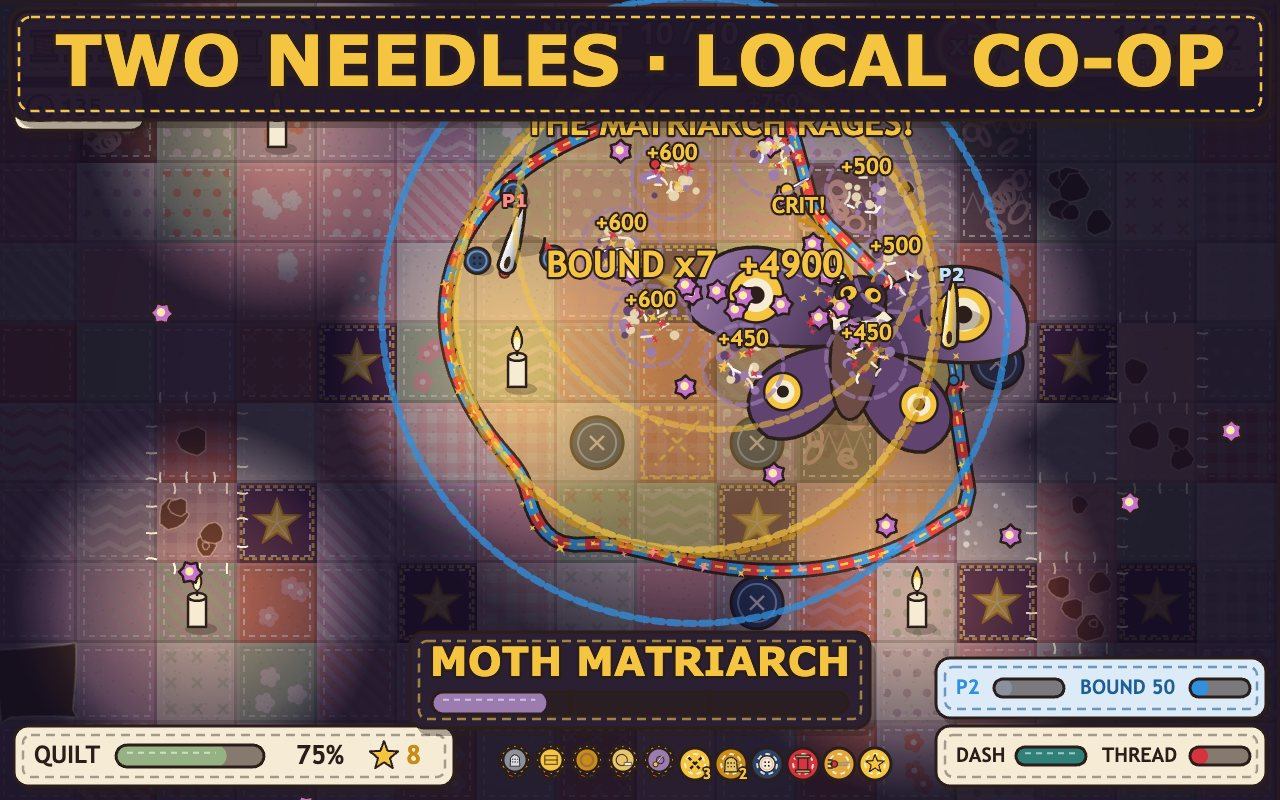
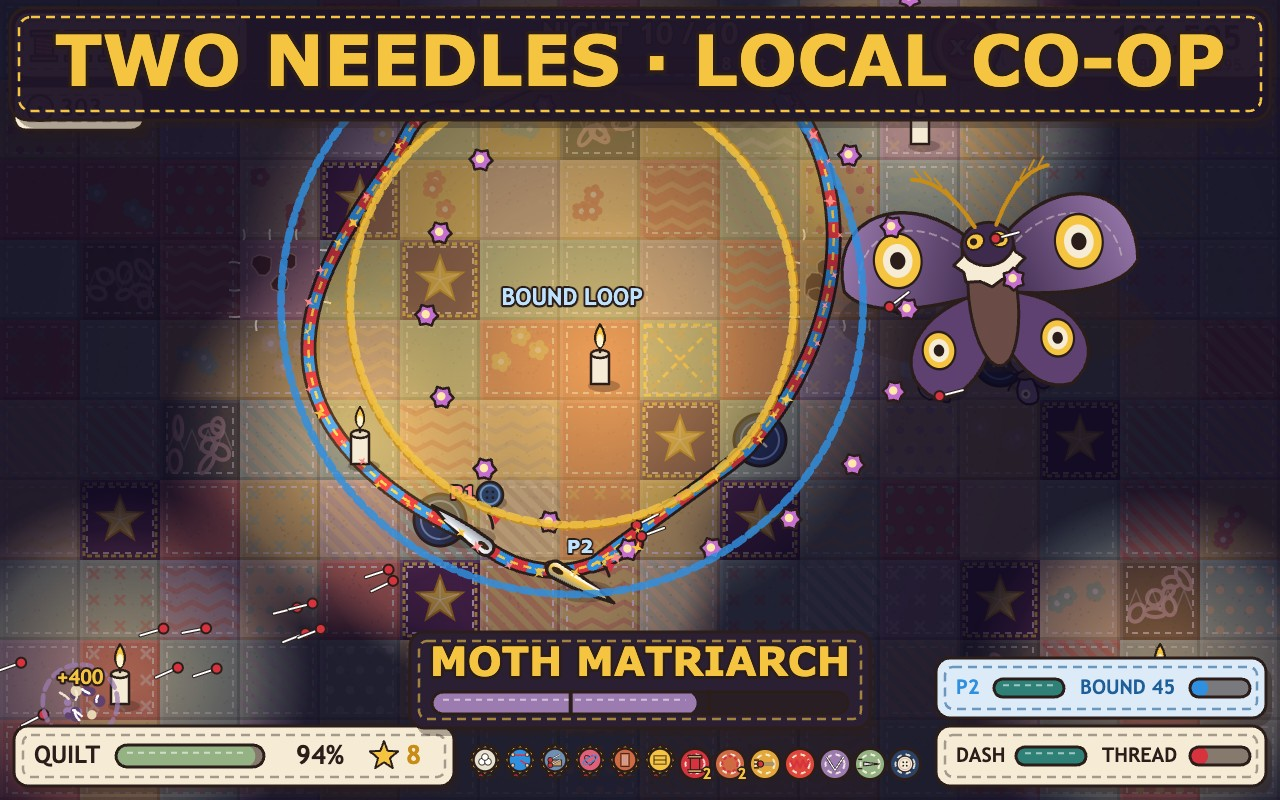
Co-op relics Cat's Cradle and Love Knot and the Cradle Song synergy, drafted only in Two Needles runs; pairs keep their own best; co-op shot skips the boss's hit-flash and joins the rest on seed 7 (Matriarch beside a giant bound loop); play-test checks the relics and the duo best

diff --git a/game/run/night.js b/game/run/night.js
@@ -13,7 +13,7 @@ import { addBonus, updateCombo } from './scoring.js';
 import { PALETTE } from '../core/config.js';
 import { addShake, burst, floatText, hitStop, ring, screenFlash, updateEffects } from '../render/effects.js';
 import { distance, easeInCubic, pointInPolygon, polygonArea, polygonCentroid } from '../core/geometry.js';
-import { BOUND_POWER, findBoundLoop, spendBothThreads } from '../coop/two-needles.js';
+import { findBoundLoop, spendBothThreads } from '../coop/two-needles.js';
 
 const STILL = { moveX: 0, moveY: 0, aimX: 640, aimY: 400, fire: false, dash: false };
 
@@ -96,14 +96,15 @@ function sewTogether(run) {
     const bound = findBoundLoop(mine, theirs);
     if (bound) {
       spendBothThreads(run);
-      cinchLoop(run, bound, BOUND_POWER);
+      cinchLoop(run, bound, run.mods.boundPower);
     }
   }
 }
 
 /**
  * A closed loop pulls tight: everything inside takes the cinch, holes inside are darned shut.
- * `power` is 1 for one needle's loop and BOUND_POWER for a bound loop pulled by two.
+ * `power` is 1 for one needle's loop and mods.boundPower (2, or 3 with Cat's Cradle) for a bound
+ * loop pulled by two.
  */
 export function cinchLoop(run, polygon, power = 1) {
   const fx = run.fx;
@@ -118,11 +119,13 @@ export function cinchLoop(run, polygon, power = 1) {
     damageEnemy(run, enemy, damage, 'loop');
     burst(fx, enemy.x, enemy.y, { count: 8, colors: [PALETTE.thread, PALETTE.gold], speed: 180, size: 6, kind: 'spark' });
   }
-  // Quilting Hoop: the cinch sends a shockwave through the pests around it.
-  if (run.mods.hoopWave > 0) {
+  // Quilting Hoop (any loop) and Cradle Song (bound loops): the cinch sends a shockwave through
+  // the pests around it.
+  const wave = run.mods.hoopWave + (bound ? run.mods.boundWave : 0);
+  if (wave > 0) {
     const reach = 140 + Math.sqrt(area) * 0.5;
     for (const enemy of run.enemies) {
-      if (!enemy.dead && distance(enemy.x, enemy.y, centre.x, centre.y) < reach) damageEnemy(run, enemy, run.mods.hoopWave, 'hoop');
+      if (!enemy.dead && distance(enemy.x, enemy.y, centre.x, centre.y) < reach) damageEnemy(run, enemy, wave, 'hoop');
     }
     ring(fx, centre.x, centre.y, PALETTE.goldDeep, reach, 0.5, 6);
   }
@@ -149,6 +152,11 @@ export function cinchLoop(run, polygon, power = 1) {
     if (run.mods.loopHeal && caught >= 3 && run.player.hp < run.mods.hp) {
       run.player.hp += 1;
       floatText(fx, run.player.x, run.player.y - 40, '+1 SPOOL', PALETTE.threadLight, 24);
+    }
+    // Love Knot (co-op): a bound loop that holds three or more pests ties a spool back on.
+    if (bound && run.mods.boundHeal && caught >= 3 && run.player.hp < run.mods.hp) {
+      run.player.hp += 1;
+      floatText(fx, centre.x, centre.y + 30, 'LOVE KNOT +1 SPOOL', '#ff9fb2', 24);
     }
   } else if (mended > 0.05) {
     floatText(fx, centre.x, centre.y, bound ? 'BOUND & MENDED' : 'MENDED', PALETTE.gold, 26);

diff --git a/game/main.js b/game/main.js
@@ -91,9 +91,15 @@ function currentMode() {
   return MODES[state.modeIndex];
 }
 
+/** Where a mode's best is kept: Two Needles pairs keep a best of their own ("classic-duo"). */
+function scoreKey(modeId, coop) {
+  return coop ? `${modeId}-duo` : modeId;
+}
+
 function bestForMode() {
   const mode = currentMode();
-  return bestScore(mode.id, mode.daily ? seedForMode(mode, null).toString() : null);
+  const day = mode.daily ? `${seedForMode(mode, null)}${state.coop ? '-duo' : ''}` : null;
+  return bestScore(scoreKey(mode.id, state.coop), day);
 }
 
 function startDemo() {
@@ -142,9 +148,10 @@ function goToNode(node) {
 function finishRun() {
   const run = state.run;
   const mode = modeById(run.modeId);
-  const dayKey = mode.daily ? String(run.seed) : null;
-  const previous = bestScore(mode.id, dayKey);
-  recordScore(mode.id, run.score, dayKey);
+  const coop = Boolean(run.partner);
+  const dayKey = mode.daily ? `${run.seed}${coop ? '-duo' : ''}` : null;
+  const previous = bestScore(scoreKey(mode.id, coop), dayKey);
+  recordScore(scoreKey(mode.id, coop), run.score, dayKey);
   const unlocked = recordRunProgress(run);
   state.progress = currentProgress();
   state.summary = summarizeRun(run, previous, unlocked);
@@ -423,7 +430,7 @@ function stage(name) {
   if (scene.screen === 'title') state.demoRun = scene.run;
   else state.run = scene.run;
   if (scene.summary) state.summary = scene.summary;
-  if (scene.best) recordScore(currentMode().id, scene.best);
+  if (scene.best) recordScore(scoreKey(currentMode().id, state.coop), scene.best);
   render();
   render();
   if (scene.caption) drawCaption(ctx, scene.caption, VIEW.width);

diff --git a/game/items/relics.js b/game/items/relics.js
@@ -16,6 +16,9 @@ export const RELICS = [
   { id: 'locket', name: 'Heirloom Locket', text: 'Heirloom bonuses are doubled', color: '#7a3a68', apply: (m) => { m.heirloomBonus *= 2; } },
   { id: 'crookedPin', name: 'Crooked Pin', text: '+12% chance of a critical pin', color: '#9c7bb0', apply: (m) => { m.critChance += 0.12; } },
   { id: 'teaTin', name: 'Tin of Tea', text: '+1 max spool; rests heal 1 more', color: '#94b283', apply: (m) => { m.hp += 1; m.restHeal += 1; } },
+  // Two Needles relics: only found in co-op runs, they change the bound loop (coop/two-needles.js).
+  { id: 'catsCradle', name: "Cat's Cradle", text: 'Co-op: bound loops pull 3x, not 2x', color: '#2f8fe0', coop: true, apply: (m) => { m.boundPower = 3; } },
+  { id: 'loveKnot', name: 'Love Knot', text: 'Co-op: a bound loop holding 3+ pests heals a spool', color: '#e0607a', coop: true, apply: (m) => { m.boundHeal = true; } },
 ];
 
 const BY_ID = new Map(RELICS.map((r) => [r.id, r]));
@@ -24,9 +27,9 @@ export function relicById(id) {
   return BY_ID.get(id);
 }
 
-/** Up to `count` relics the player does not own yet. */
-export function draftRelics(rng, owned, count = 3) {
-  const pool = RELICS.filter((r) => !owned.includes(r.id));
+/** Up to `count` relics the player does not own yet; the co-op relics only in a Two Needles run. */
+export function draftRelics(rng, owned, count = 3, coop = false) {
+  const pool = RELICS.filter((r) => !owned.includes(r.id) && (coop || !r.coop));
   const picks = [];
   while (picks.length < count && pool.length > 0) picks.push(pool.splice(Math.floor(rng.next() * pool.length), 1)[0]);
   return picks;

diff --git a/game/render/icons.js b/game/render/icons.js
@@ -300,6 +300,39 @@ function drawGlyph(ctx, id) {
       ctx.quadraticCurveTo(8, -24, 2, -30);
       ctx.stroke();
       break;
+    case 'catsCradle':
+      // A string figure: red and blue thread crossed between two pairs of fingers.
+      ctx.lineWidth = 5;
+      for (const [color, flip] of [[PALETTE.thread, 1], ['#2f8fe0', -1]]) {
+        ctx.strokeStyle = color;
+        ctx.beginPath();
+        ctx.moveTo(-22, -16 * flip);
+        ctx.lineTo(22, 16 * flip);
+        ctx.moveTo(-22, 16 * flip);
+        ctx.lineTo(0, 0);
+        ctx.moveTo(-22, -16 * flip);
+        ctx.lineTo(22, -16 * flip);
+        ctx.stroke();
+      }
+      ctx.fillStyle = '#f2c9a0';
+      for (const [x, y] of [[-24, -18], [-24, 18], [24, -18], [24, 18]]) {
+        ctx.beginPath();
+        ctx.arc(x, y, 6, 0, TAU);
+        inked(ctx, '#f2c9a0', 2.5);
+      }
+      break;
+    case 'loveKnot':
+      ctx.beginPath();
+      ctx.moveTo(0, 18);
+      ctx.bezierCurveTo(-30, -2, -18, -26, 0, -10);
+      ctx.bezierCurveTo(18, -26, 30, -2, 0, 18);
+      inked(ctx, '#e0607a', 3);
+      ctx.strokeStyle = '#2f8fe0';
+      ctx.lineWidth = 4;
+      ctx.beginPath();
+      ctx.ellipse(0, 0, 26, 9, -0.5, 0, TAU);
+      ctx.stroke();
+      break;
     case 'book':
       ctx.beginPath();
       ctx.rect(-22, -16, 44, 32);

diff --git a/game/ui/title-screen.js b/game/ui/title-screen.js
@@ -51,7 +51,7 @@ export function drawTitle(ctx, view) {
   drawText(ctx, modeGoal(mode), VIEW.width / 2, 197, { size: 33, color: PALETTE.gold, outline: 0, font: FONT.plain });
   drawMenu(ctx, view, mode);
   drawBoss(ctx, time);
-  drawBest(ctx, mode, view.best);
+  drawBest(ctx, mode, view.best, view.coop);
   drawControls(ctx, view.coop);
 }
 
@@ -166,9 +166,9 @@ function drawBoss(ctx, time) {
   drawText(ctx, 'NIGHT 10 BOSS', 935, 614, { size: 26, color: PALETTE.cream, outline: 4, font: FONT.plain });
 }
 
-function drawBest(ctx, mode, best) {
-  drawFeltPanel(ctx, 1000, 250, 250, 104, PALETTE.cream, 'rgba(42,29,26,0.45)', 16);
-  drawText(ctx, `BEST ${mode.daily ? 'TODAY' : mode.name.toUpperCase()}`, 1125, 278, { size: 18, color: PALETTE.terracotta, outline: 0, font: FONT.plain });
+function drawBest(ctx, mode, best, coop) {
+  drawFeltPanel(ctx, 1000, 250, 250, 104, coop ? '#dcebf7' : PALETTE.cream, 'rgba(42,29,26,0.45)', 16);
+  drawText(ctx, `BEST ${mode.daily ? 'TODAY' : mode.name.toUpperCase()}${coop ? ' DUO' : ''}`, 1125, 278, { size: 18, color: PALETTE.terracotta, outline: 0, font: FONT.plain });
   drawText(ctx, formatNumber(best), 1125, 322, { size: best >= 100000 ? 40 : 46, color: PALETTE.ink, outline: 0, font: FONT.plain });
 }
 

diff --git a/game/items/synergies.js b/game/items/synergies.js
@@ -14,6 +14,7 @@ export const SYNERGIES = [
   { id: 'buttonFortress', name: 'Button Fortress', text: '+2 guard buttons', needs: { notions: { buttons: 1 }, relics: ['ironThimble'] }, apply: (m) => { m.buttons += 2; } },
   { id: 'longHaul', name: 'Long Haul', text: 'Loops cinch 30% harder and darn 50% more', needs: { notions: { spool: 2 }, relics: ['tapeMeasure'] }, apply: (m) => { m.loopDamage *= 1.3; m.mendAmount *= 1.5; } },
   { id: 'tightWeave', name: 'Tight Weave', text: 'Cinch shockwaves hit twice as hard', needs: { notions: { wax: 1 }, relics: ['hoop'] }, apply: (m) => { m.hoopWave *= 2; } },
+  { id: 'cradleSong', name: 'Cradle Song', text: 'Co-op: every bound loop sends out a shockwave', needs: { notions: { wax: 1 }, relics: ['catsCradle'] }, apply: (m) => { m.boundWave += 60; } },
 ];
 
 export function synergyById(id) {

diff --git a/game/run/run.js b/game/run/run.js
@@ -78,7 +78,7 @@ export function createRun({ seed, modeId = 'classic', needleId = 'steel', coop =
   run.player = createPlayer(run.mods);
   run.thread = createThread(run.player.x, run.player.y);
   if (coop) addPartner(run);
-  if (needleById(needleId).startRelic) gainRelic(run, draftRelics(run.rng, [], 1)[0].id);
+  if (needleById(needleId).startRelic) gainRelic(run, draftRelics(run.rng, [], 1, coop)[0].id);
   return run;
 }
 
@@ -130,7 +130,7 @@ export function offerNotions(run) {
 }
 
 function offerRelics(run, title, subtitle) {
-  const choices = draftRelics(run.rng, run.relics, 3).map((r) => ({
+  const choices = draftRelics(run.rng, run.relics, 3, run.coop).map((r) => ({
     kind: 'relic',
     id: r.id,
     name: r.name,

diff --git a/game/run/merchant.js b/game/run/merchant.js
@@ -13,7 +13,7 @@ export function stockMerchant(run, node) {
   for (const notion of draftNotions(rng, run.owned, 3)) {
     items.push({ kind: 'notion', id: notion.id, name: notion.name, text: notion.text, color: notion.color, price: 28 + 10 * (run.owned[notion.id] ?? 0) + rng.int(0, 6) });
   }
-  for (const relic of draftRelics(rng, run.relics, 2)) {
+  for (const relic of draftRelics(rng, run.relics, 2, run.coop)) {
     items.push({ kind: 'relic', id: relic.id, name: relic.name, text: relic.text, color: relic.color, price: 70 + rng.int(0, 15) });
   }
   items.push({ kind: 'spool', id: 'spool', name: 'Spare Spool', text: 'Heal 1 spool', color: '#d6333f', price: 18 });

diff --git a/game/ui/codex-screen.js b/game/ui/codex-screen.js
@@ -85,8 +85,8 @@ export function drawCodex(ctx, time, hover) {
   drawFeltPanel(ctx, 40, 432, 640, 280, PALETTE.cream, 'rgba(42,29,26,0.45)', 18);
   drawText(ctx, 'RELICS', 360, 456, { size: 22, color: PALETTE.thread, outline: 0 });
   RELICS.forEach((relic, i) => {
-    const x = 96 + (i % 7) * 88;
-    const y = 520 + Math.floor(i / 7) * 110;
+    const x = 90 + (i % 8) * 78;
+    const y = 520 + Math.floor(i / 8) * 110;
     const known = codex.relics.includes(relic.id);
     maybeSilhouette(ctx, known, () => drawRelicIcon(ctx, relic, x, y, 56));
     drawText(ctx, known ? relic.name.split(' ').pop() : '???', x, y + 44, { size: 14, color: PALETTE.ink, outline: 0 });

diff --git a/game/demo/shots.js b/game/demo/shots.js
@@ -66,6 +66,8 @@ function coopScore(run) {
   }
   // Best of all: the Matriarch herself inside the bound loop; else any boss in view, else pests.
   const boss = run.enemies.find((e) => (e.kind === 'matriarch' || e.kind === 'wyrm') && !e.dead && !e.entering && e.x > 120 && e.x < 1160 && e.y > 170 && e.y < 620);
+  // A boss mid hit-flash is a white blank: wait for her colours.
+  if (boss && boss.flash > 0.3) return -1;
   const holdsBoss = boss && pointInPolygon(boss.x, boss.y, fresh.polygon) ? 260 : 0;
   const bossBonus = boss ? (boss.kind === 'matriarch' ? 200 : 120) : 0;
   const apart = distance(run.player.x, run.player.y, run.partner.x, run.partner.y);

diff --git a/game/coop/two-needles.js b/game/coop/two-needles.js
@@ -11,8 +11,8 @@ import { createThread } from '../world/thread.js';
 /** The partner's thread and needle colours. */
 export const PARTNER = { thread: '#2f8fe0', threadLight: '#bfe3ff', needle: '#f5c542', name: 'Gold Needle' };
 
-/** How much harder a bound loop pulls than a single needle's loop. */
-export const BOUND_POWER = 2;
+// How much harder a bound loop pulls than a single needle's loop is mods.boundPower: 2, or 3 with
+// the Cat's Cradle relic (items/relics.js). Love Knot and Cradle Song add to it too.
 
 const MIN_BOUND_AREA = 4200;
 /** The partner's newest segments sit under its needle and never count as a crossing. */

diff --git a/game/run/events.js b/game/run/events.js
@@ -7,7 +7,7 @@ import { draftRelics } from '../items/relics.js';
 import { gainRelic, refreshLoadout, takeNotion } from '../items/loadout.js';
 
 function randomRelic(run, rng) {
-  const [relic] = draftRelics(rng, run.relics, 1);
+  const [relic] = draftRelics(rng, run.relics, 1, run.coop);
   if (!relic) {
     run.sequins += 40;
     return 'Nothing left to find: +40 sequins instead.';
